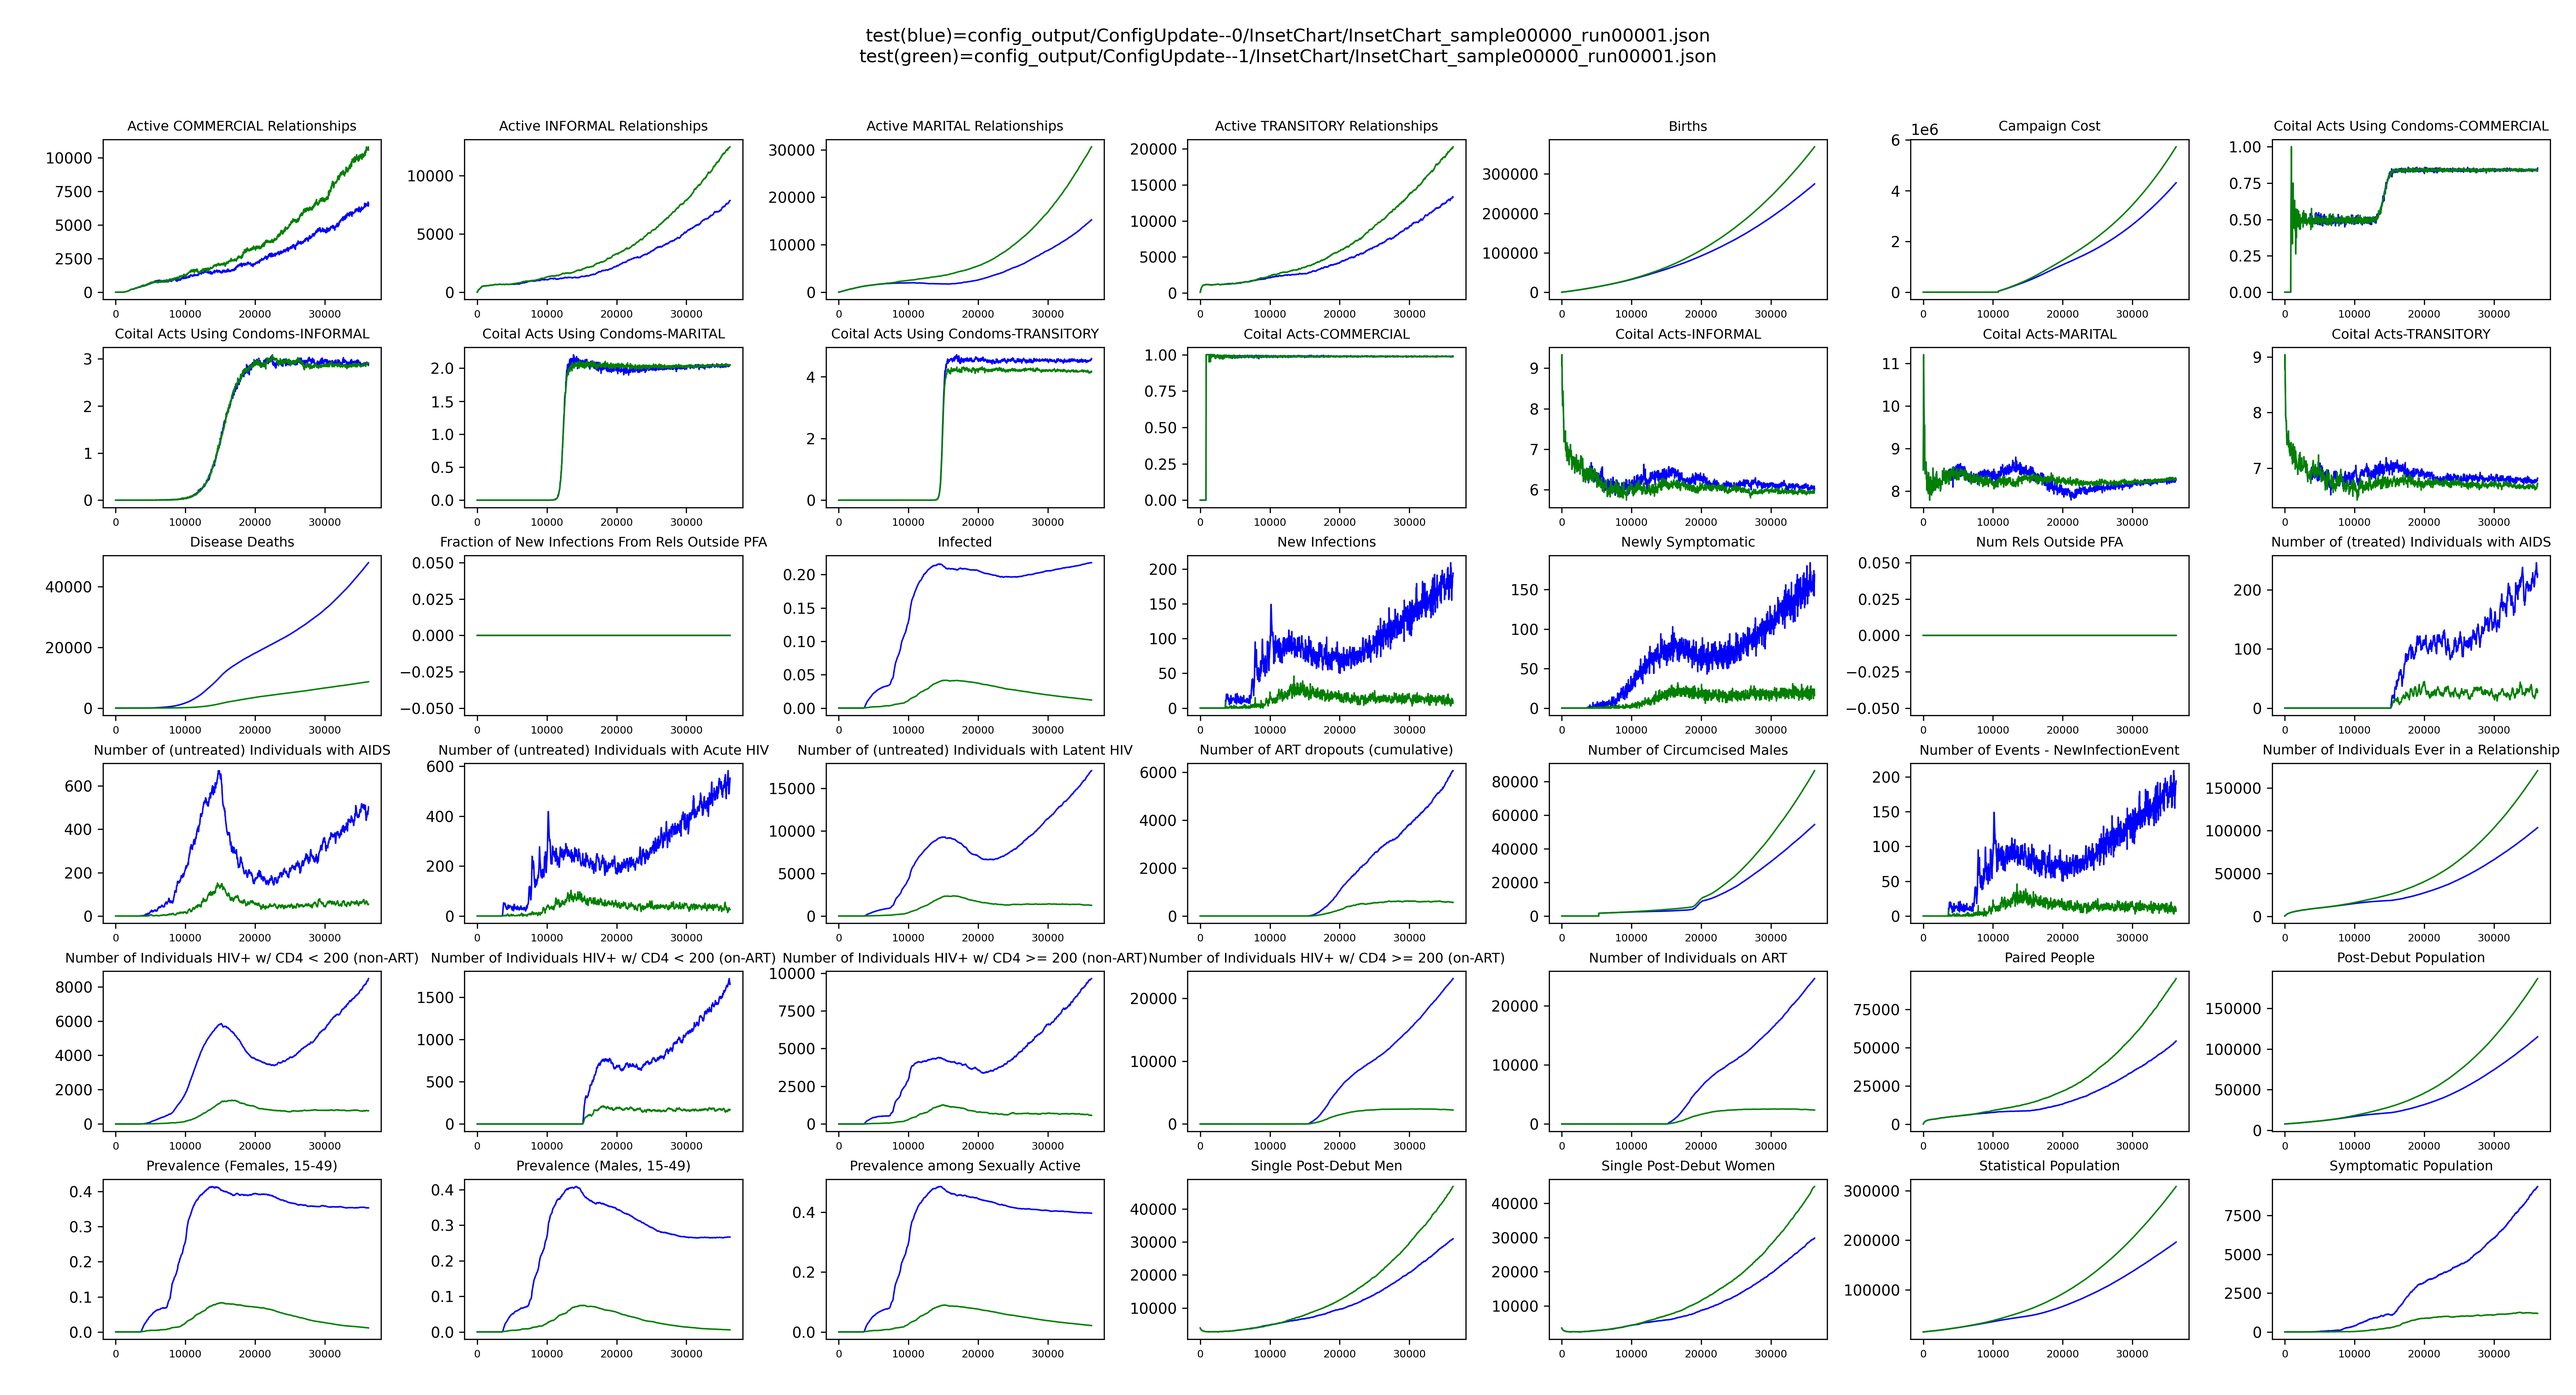
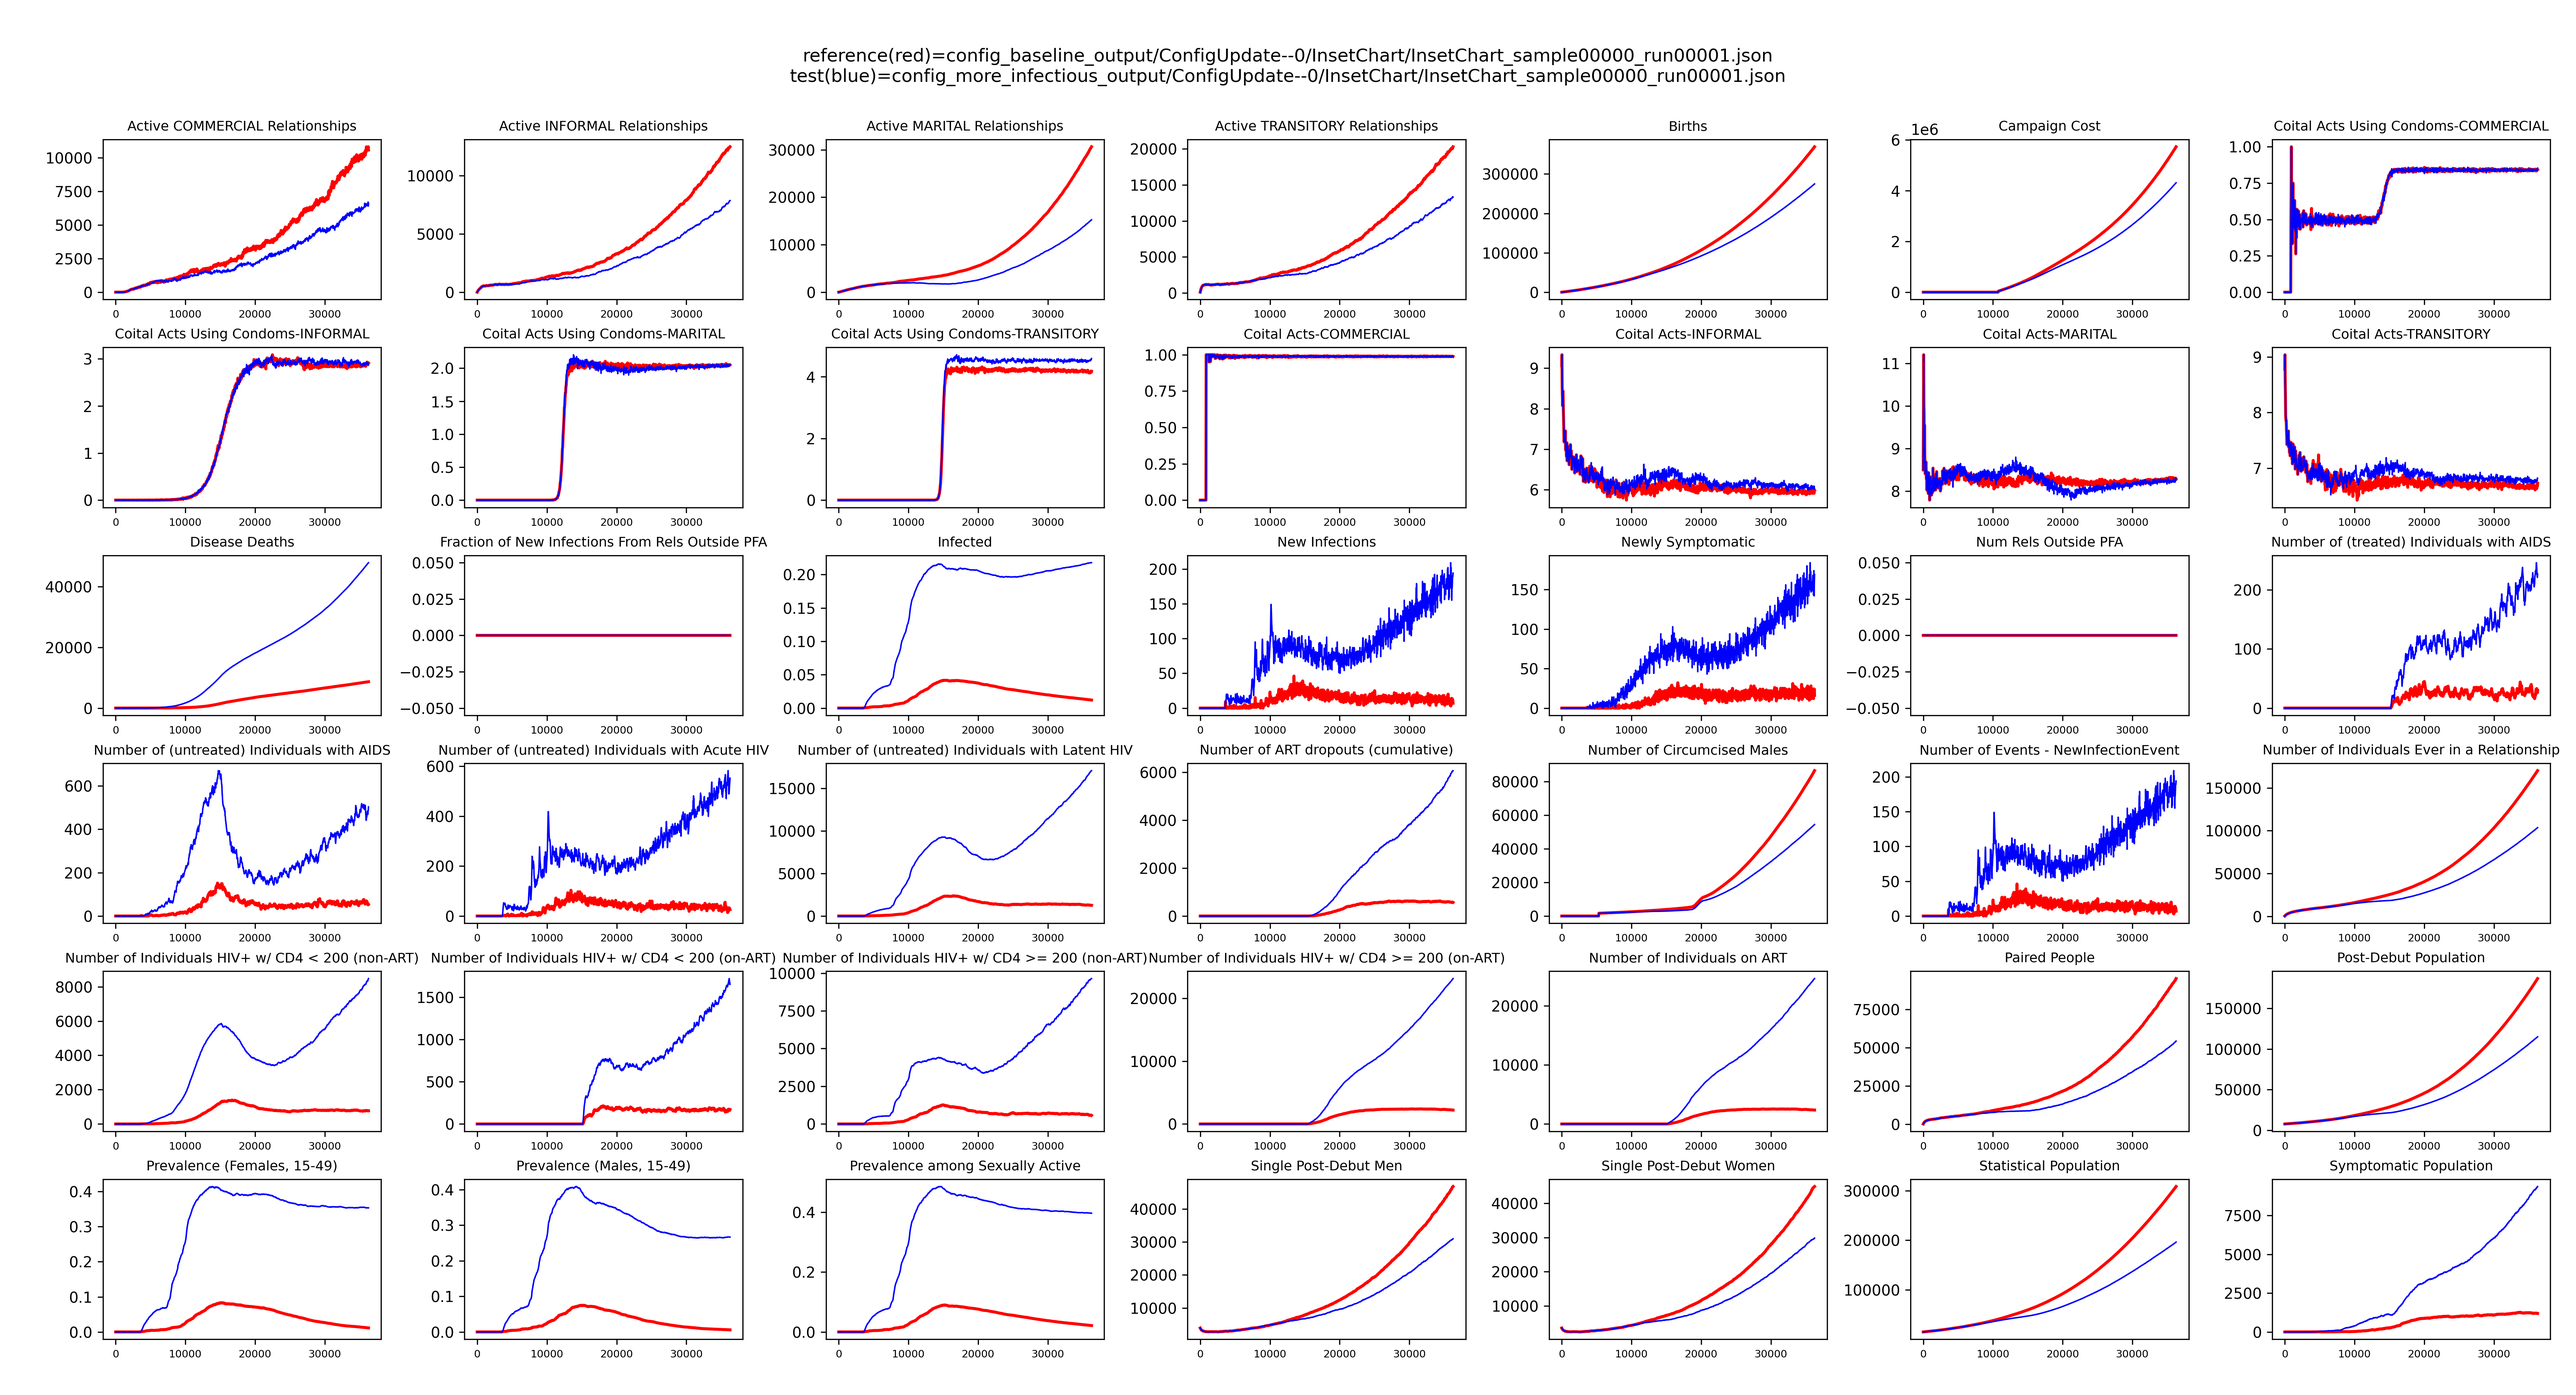
Dan eview updates + minor command doc fix

diff --git a/emodpy_workflow/scripts/download.py b/emodpy_workflow/scripts/download.py
@@ -82,7 +82,7 @@ def parse_args():
     parser.add_argument('-r', '--receipt', dest='receipt_file', type=str, default=DEFAULTS['receipt_file'],
                         help=f'Commissioning receipt file path. {usage_str}.')
     parser.add_argument('-s', '--samples', dest='samples_file', type=str, default=DEFAULTS['samples_file'],
-                        help=f"Resampled parameter sets csv file of simulations to plot. {usage_str}.")
+                        help=f"Resampled parameter sets csv file of simulations to download. {usage_str}.")
     parser.add_argument('--suite-id', dest='suite_id', type=str, default=DEFAULTS['suite_id'],
                         help=f'Id of suite to download simulations from. {usage_str}.')
     parser.add_argument('--exp-id', dest='experiment_id', type=str, default=DEFAULTS['experiment_id'],

diff --git a/docs/tutorials/modify_configuration.md b/docs/tutorials/modify_configuration.md
@@ -1,40 +1,37 @@
 # Modify Configuration Parameters
 
-## What are Configuration Parameters?
-
 Configuration parameters are simulation-wide parameters that affect how EMOD runs at a fundamental level. These include
 parameters related, but not limited to:
 
-* Model duration, timestep length, and when the model starts
+* Model duration, timestep length, and simulation start time
 * How a disease progresses and transmits
 * Whether agents can be born, age, and/or die
-* Output report specifications
 
-## Modifying a Configuration Parameter
+# Overview
 
-Configuration parameters are assigned values either in a country model or in a project frame, in one of two functions
-(in both locations): `initialize_config` and `get_config_parameterized_calls`.
+Configuration parameters are assigned values in functions `initialize_config` and `get_config_parameterized_calls` in a
+frame, however, it is common practice to set default/initial values in the country model versions of these methods.
 
-### Example
+# Example
 
-In this example we update the value of configuration parameter named **Base_Infectivity**, which alters how infectious
+In this example, we update the value of configuration parameter named **Base_Infectivity**, which alters how infectious
 a disease is at a fundamental level (before any other modifiers apply).
 
-#### Create a new project and baseline frame
+## Prerequisites
 
-```bash 
-python -m emodpy_workflow.scripts.new_project -d configuration_tutorial
-cd configuration_tutorial
-python -m emodpy_workflow.scripts.new_frame --country Zambia --dest baseline
-```
+This tutorial requires you to have done the following:
 
-#### Extend the baseline frame for alteration
+- [Setup and installed emodpy-workflow](setup.md)
+- [Created a project and a frame](create_project.md)
+- [Learned how to run EMOD](run_emod.md)
+
+## Extend the baseline frame for alteration
 
 ```bash 
 python -m emodpy_workflow.scripts.extend_frame --source baseline --dest more_infectious
 ```
 
-#### Edit the frame config.py
+## Edit the frame config.py
 
 Here we edit the `initialize_config` function, opting to not make a hyperparameter for setting `Base_Infectivity` for
 simplicity. An alternative example that makes a hyperparameter is located at 
@@ -69,23 +66,28 @@ def build_reports(reporters: Reporters):
     return reporters
 ```
 
-#### Run EMOD
+## Run EMOD
 
-We will run the **baseline** frame and **more_infectious** frame:
+We will run the **baseline** frame and **more_infectious** frames:
 
 ```bash
-python -m emodpy_workflow.scripts.run -f baseline,more_infectious -N ConfigUpdate -o config_output -p ContainerPlatform -d output/InsetChart.json
+python -m emodpy_workflow.scripts.run -f baseline -N ConfigUpdate -o config_baseline_output -p ContainerPlatform -d output/InsetChart.json
 ```
 
-#### Compare InsetChart.json
+```bash
+python -m emodpy_workflow.scripts.run -f more_infectious -N ConfigUpdate -o config_more_infectious_output -p ContainerPlatform -d output/InsetChart.json
+```
+
+
+## Compare InsetChart.json
 
 Run:
 
 ```bash
-python -m emodpy_hiv.plotting.plot_inset_chart_mean_compare config_output/ConfigUpdate--0/InsetChart/InsetChart_sample00000_run00001.json config_output/ConfigUpdate--1/InsetChart/InsetChart_sample00000_run00001.json
+python -m emodpy_hiv.plotting.plot_inset_chart config_baseline_output/ConfigUpdate--0/InsetChart/InsetChart_sample00000_run00001.json config_more_infectious_output/ConfigUpdate--0/InsetChart/InsetChart_sample00000_run00001.json
 ```
 
-Blue below represents the **more_infectious** frame and green represents the frame **baseline**. As can be seen, highly
+Blue below represents the **more_infectious** frame and red represents the frame **baseline**. As can be seen, highly
 infectious HIV results in higher infection rates and mortality.
 
 ![image](../images/InsetChart_Compare--more_infectious.png)
